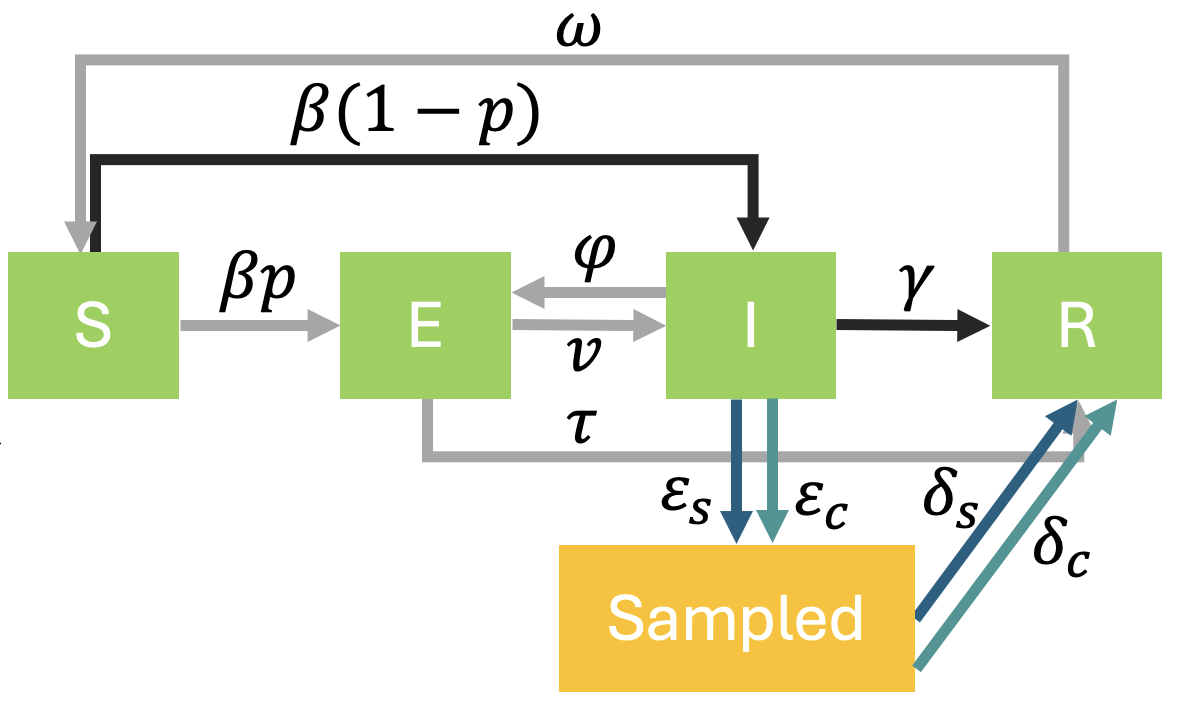
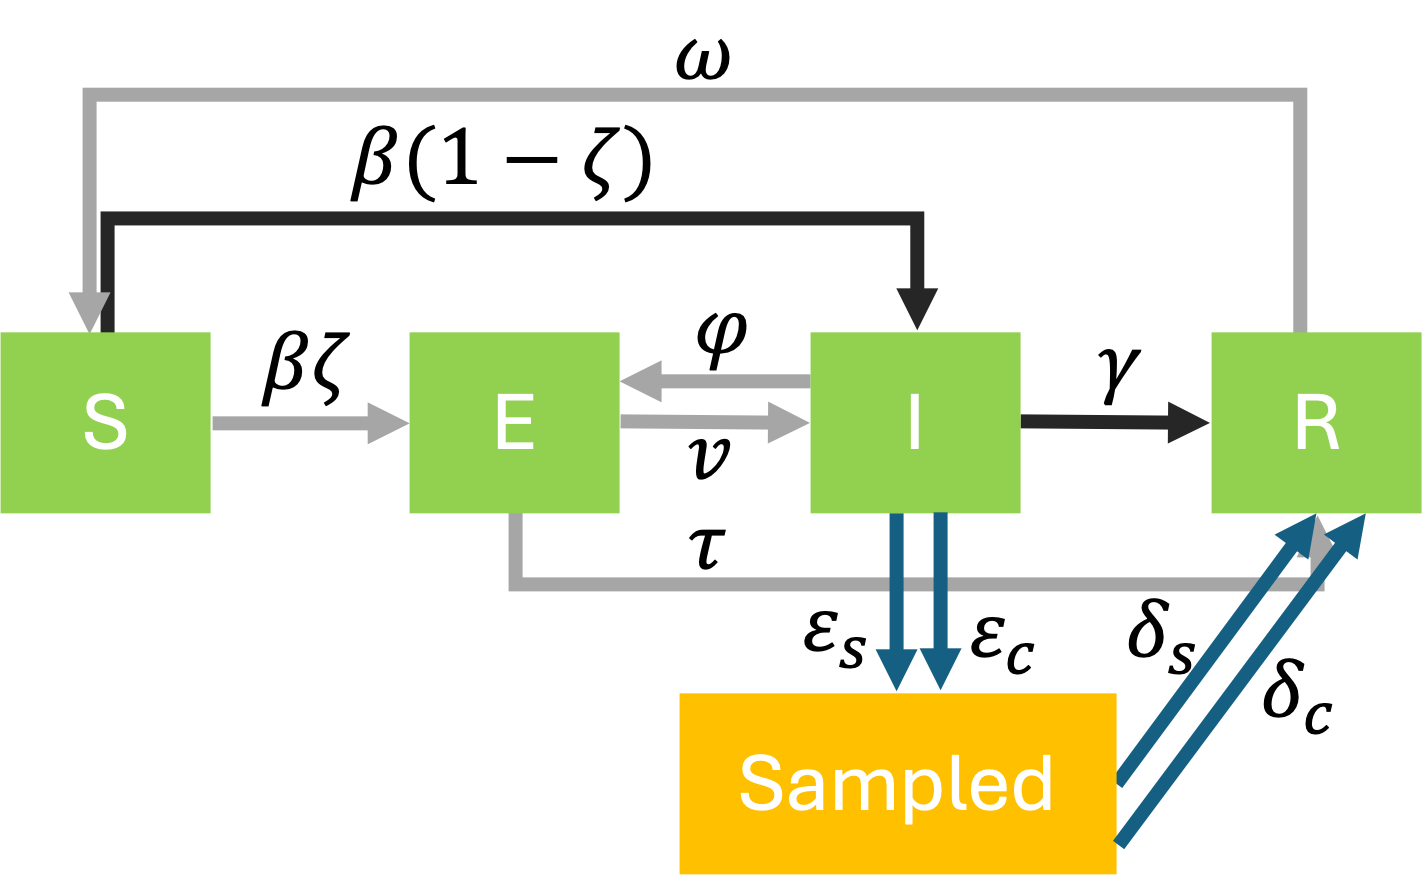
Update relation to e3SIM files and change latency probability to ζ

Changed region(s): [[0.0, 0.0309, 1.0, 1.0], [0.6177, 0.4326, 0.6486, 0.4944]]

diff --git a/gui/tabs/t7_epidemiology_model.py b/gui/tabs/t7_epidemiology_model.py
@@ -74,7 +74,7 @@ class EpidemiologyModel(TabBase):
             # Testings
         self.canvas = tk.Canvas(self.control_frame)
         self.scrollbar = ttk.Scrollbar(self.control_frame, orient="vertical", command=self.canvas.yview)
-        self.canvas.configure(yscrollcommand=self.scrollbar.set, width=1300, height=700)
+        self.canvas.configure(yscrollcommand=self.scrollbar.set, width=1300, height=800)
         
         self.scrollable_frame = ttk.Frame(self.canvas)
         for i in range(4):  
@@ -135,7 +135,7 @@ class EpidemiologyModel(TabBase):
 
         self.render_slim_path_label(hide, column=1, columnspan=2, frow = self.increment_frow(increment = False))
         self.render_model(hide, column=0, columnspan=1, frow = self.increment_frow(increment = False))
-        self.render_n_epoch(hide, column=1, columnspan= 1, frow = self.increment_frow())
+        self.render_n_epoch(hide, column=1, columnspan= 1, frow = self.increment_frow(by=3))
         # self.render_epoch_changing_generation(disabled = True)
         self.render_epoch_changing_generation(hide, column=0, columnspan= 3, frow = self.increment_frow(increment = False))
         self.render_title("Evolutionary Components Setting", hide, 0, frow = self.increment_frow(), columnspan=3)
@@ -148,7 +148,7 @@ class EpidemiologyModel(TabBase):
         self.render_S_IE_prob(hide, column=0, columnspan=1, frow = self.increment_frow(by = 1))
         self.render_latency_prob(hide, column=1, columnspan=1, frow = self.increment_frow(increment = False))
         self.render_E_R_prob(hide, column=2, columnspan=1, frow = self.increment_frow(increment = False))
-        self.render_image(hide, image_path="assets/t7.png", desired_width=600, desired_height=300, column = 1, columnspan=2, frow = self.increment_frow())
+        self.render_image(hide, image_path="assets/t7.png", desired_width=500, desired_height=300, column = 1, columnspan=2, frow = self.increment_frow())
 
         self.render_E_I_prob(hide, column=0, columnspan=1, frow = self.increment_frow())
         self.render_I_E_prob(hide, column=0, columnspan=1, frow = self.increment_frow())
@@ -319,7 +319,7 @@ class EpidemiologyModel(TabBase):
 
     def render_R_S_prob(self, hide, column, columnspan, frow):
         text = "Immunity Loss Prob. ω (list numerical)"
-        keys_path = self.latency_prob_keys_path
+        keys_path = self.R_S_prob_keys_path
         component = EasyEntry(
             keys_path, self.config_path, 
             text, 'R_S_prob', 
@@ -330,7 +330,7 @@ class EpidemiologyModel(TabBase):
         return component
 
     def render_latency_prob(self, hide, column, columnspan, frow):
-        text = "Latency Probability p (list numerical)"
+        text = "Latency Probability ζ (list numerical)"
         keys_path = self.latency_prob_keys_path
         component = EasyEntry(
             keys_path, self.config_path, 

diff --git a/gui/__main__.py b/gui/__main__.py
@@ -12,9 +12,9 @@ import json
 import tkinter.font as tkFont
 import sys
 
-enivol_dir = os.path.join(os.path.dirname(__file__), '../enivol_packaging/enivol')
-if enivol_dir not in sys.path:
-    sys.path.insert(0, enivol_dir)
+e3SIM_dir = os.path.join(os.path.dirname(__file__), '../e3SIM')
+if e3SIM_dir not in sys.path:
+    sys.path.insert(0, e3SIM_dir)
 
 from tabs.t1_configuration import Configuration
 from tabs.t1_configuration_v2 import Configurationv2
@@ -73,7 +73,7 @@ def parse_args():
     parser = argparse.ArgumentParser(
         prog='cluster', description='Application to view GUI')
     parser.add_argument('--config_path', type=str,
-                        help='path to the configuration JSON file', default="enivol_packaging/enivol/config_template/user_config.json")
+                        help='path to the configuration JSON file', default="e3SIM/config_template/user_config.json")
     parser.add_argument('-v', '--view', action='store_true',
                         help='visualize network graph')
     parser.add_argument('--hide', action='store_true', help='Set hide to False, default is True')
@@ -93,9 +93,9 @@ def launch_gui(default_config_path, user_config_path, hide=False):
     style = ttk.Style(root)
     if 'aqua' in style.theme_names():
         style.theme_use('aqua')
-    root.title("EnivolCrossing: Simulation Framework for Genetic Epidemiology")
+    root.title("e3SIM: Simulation Framework for Genetic Epidemiology")
     
-    if user_config_path == "enivol_packaging/enivol/config_template/user_config.json":
+    if user_config_path == "e3SIM/config_template/user_config.json":
         config_path = initialize_configuration(default_config_path, user_config_path)
     else:
         config_path = user_config_path
@@ -145,7 +145,7 @@ def execute():
     Executes the application, according to the command line arguments specified.
     """
     args = parse_args()
-    default_config_path = "enivol_packaging/enivol/config_template/default_config.json"
+    default_config_path = "e3SIM/config_template/default_config.json"
     launch_gui(default_config_path, args.config_path, args.hide)
 
 

diff --git a/gui/tabs/t4_seeds_configuration.py b/gui/tabs/t4_seeds_configuration.py
@@ -658,7 +658,7 @@ class SeedsConfiguration(TabBase):
             keys_path,
             self.config_path,
             text,
-            "Mutation Rate (WF)",
+            "Mutation Rate",
             self.control_frame,
             column,
             frow,
@@ -1331,6 +1331,7 @@ class SeedsConfiguration(TabBase):
                     self.epi_group_controls = self.init_epi_group(hide)
                     self.user_input_group_controls = self.init_user_input_group(not hide)
                     self.wf_group_controls = self.init_wf_group(not hide)
+                    self.run_button_control = self.render_run_button(hide)
                 case _:
                     raise ValueError("Invalid method")
 

diff --git a/gui/utils.py b/gui/utils.py
@@ -995,7 +995,7 @@ class EasyPathSelector(EasyWidgetBase):
                 row=frow + 1, column=column, columnspan=columnspan, sticky="w", pady=5
             )
             button.grid(
-                row=frow + 2, column=column, columnspan=columnspan, sticky="e", pady=5
+                row=frow + 2, column=column, columnspan=columnspan, pady=5
             )
 
         self.local_components = {label, self.value_label, button}
